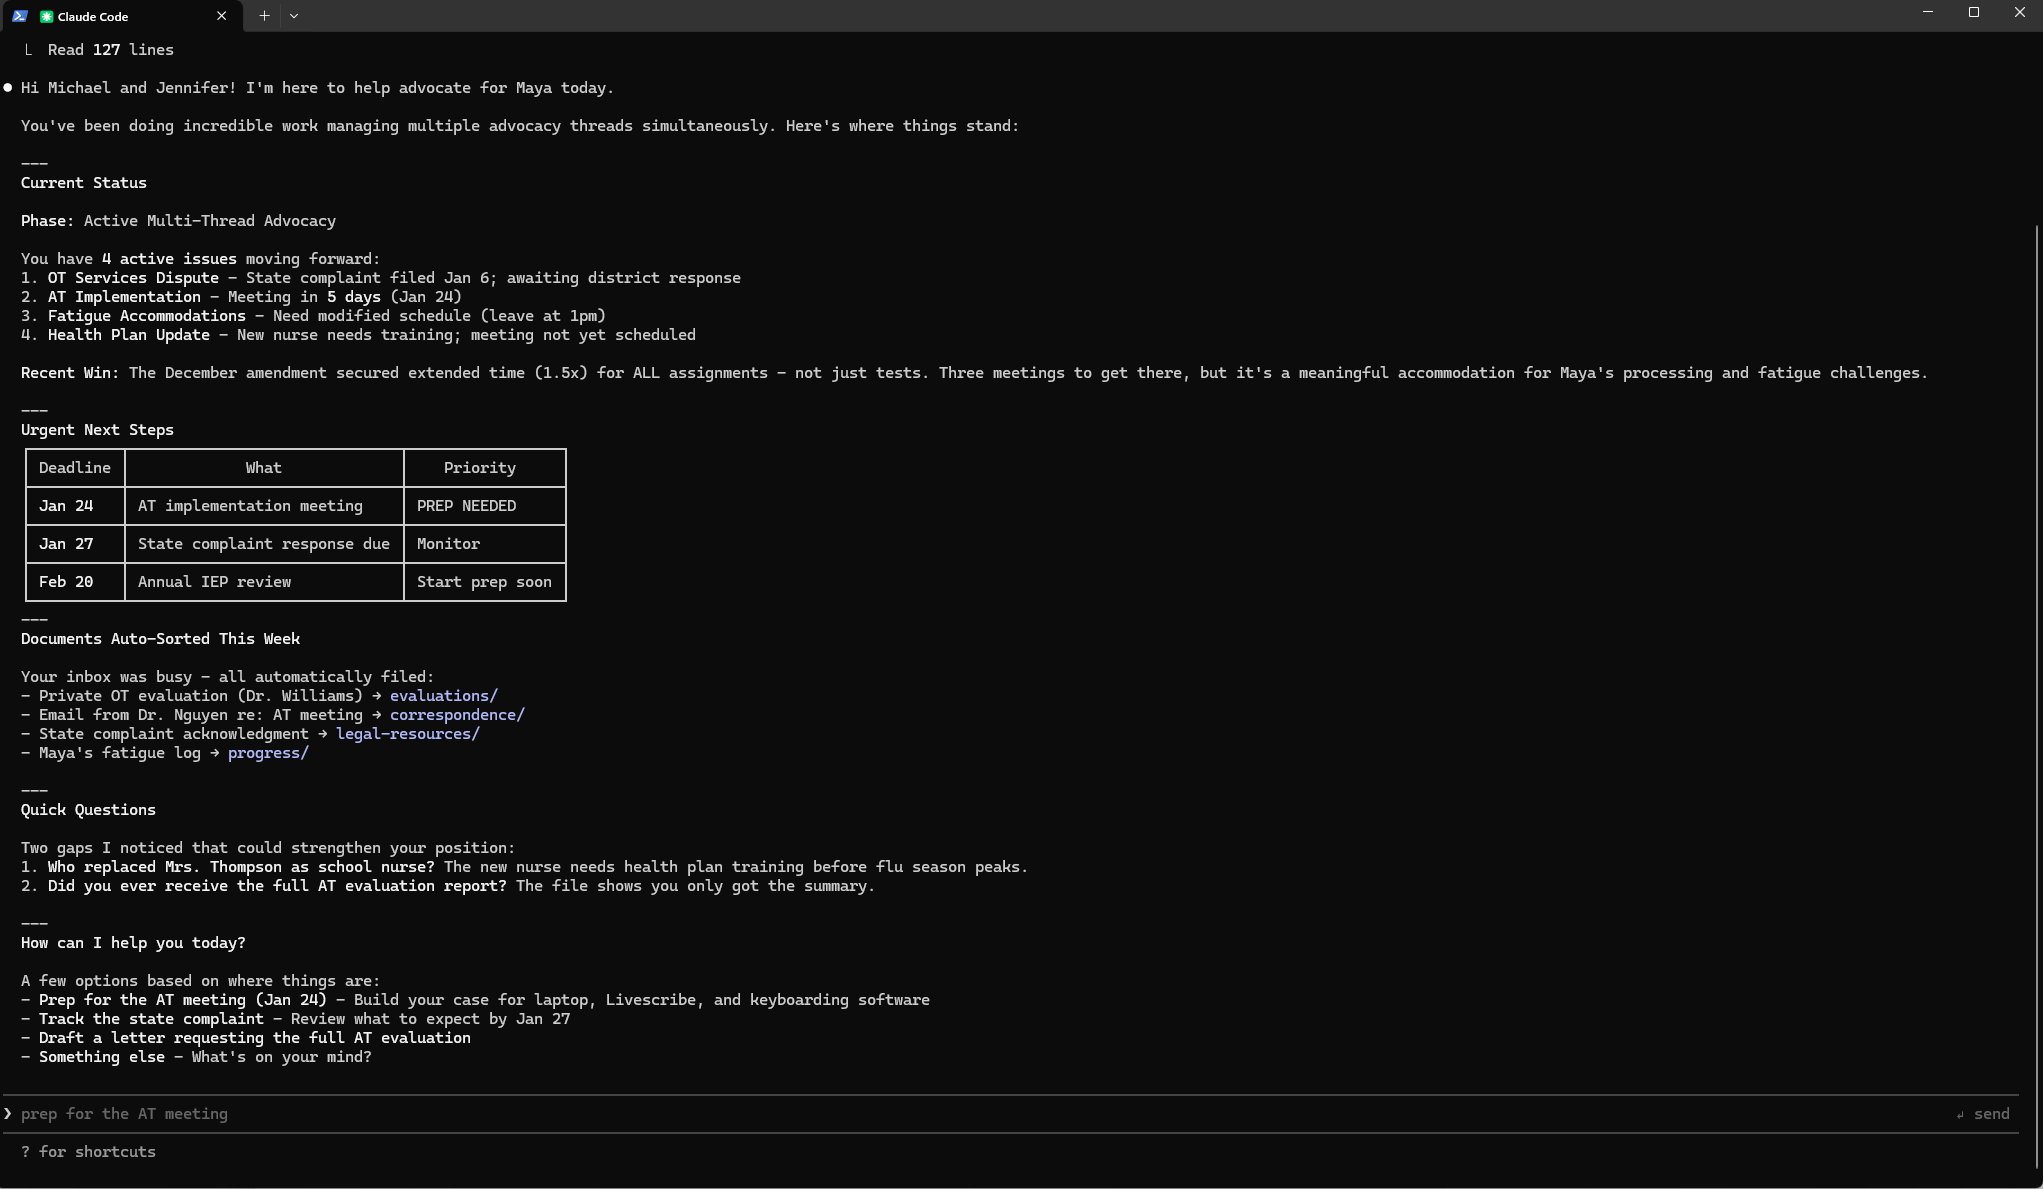
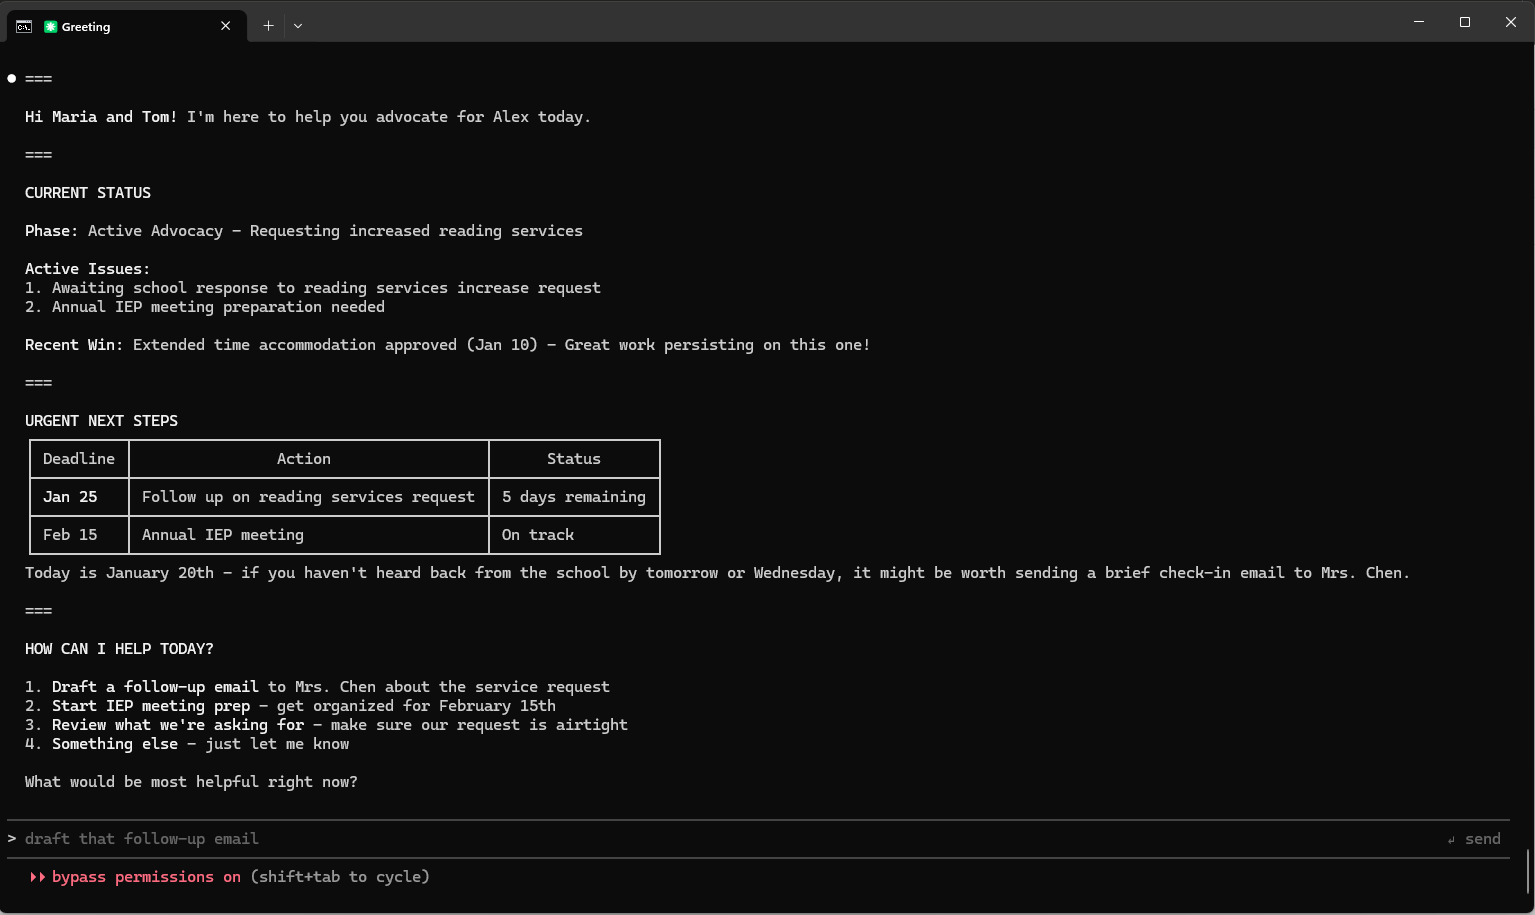
feat: Improve customer start screen experience
- Add Windows (start-advocacy.bat) and Mac (start-advocacy.command) launchers
  with warm welcome banner, Claude Code detection, and error handling
- Fix Windows launcher to use claude.cmd to avoid desktop app conflict
- Update welcome.md with improved visual formatting (section dividers, ALL CAPS headers)
- Update CLAUDE.md with detailed automatic welcome flow instructions
- Update README.md with Quick Start section, Troubleshooting, and launcher instructions
- Add pre-commit checklist to CONTRIBUTING.md (revert user data files rule)
- Add new screenshots: launcher, setup wizard, advice, drafting

Changed region(s): [[0.0, 0.0, 1.0, 0.6426], [0.0, 0.1836, 1.0, 1.0]]

diff --git a/README.md b/README.md
@@ -24,7 +24,11 @@
 - [Common Questions](#common-questions)
 - [Getting Help](#getting-help)
 - [We Want Your Feedback!](#we-want-your-feedback)
+- [Troubleshooting](#troubleshooting)
 - [Important Disclaimers](#important-disclaimers)
+
+> **Free help is available!** Every state has a Parent Training and Information Center (PTI)
+> that provides free support to families. Find yours at [parentcenterhub.org](https://www.parentcenterhub.org/find-your-center/)
 
 ---
 
@@ -102,10 +106,9 @@ This is an **agentic AI toolkit**—Claude doesn't just answer questions, it wor
 
 ### What You'll Need
 
-1. **A computer** (Windows, Mac, or Linux)
+1. **A computer** (Windows or Mac)
 2. **Claude Code** - AI tool from Anthropic ([Get it here](https://claude.ai/code))
 3. **A Claude Pro subscription** - See cost details below
-4. **About 15 minutes** for initial setup
 
 ### Cost
 
@@ -181,11 +184,15 @@ git clone https://github.com/[username]/iep-advocate-template.git
 2. Follow the installation instructions for your computer
 3. Sign in with your Claude Pro account (or sign up for Pro)
 
-### Step 3: Open the Toolkit in Claude Code
+### Step 3: Open the Toolkit
 
-1. Open Claude Code
-2. Open the folder you downloaded (File > Open Folder)
-3. You should see all the toolkit files in the sidebar
+**Easiest way:** Double-click `start-advocacy.bat` (Windows) or `start-advocacy.command` (Mac)
+
+![Launcher showing warm welcome message and instructions](assets/launcher-screenshot.png)
+
+*The launcher greets you warmly and guides you through getting started.*
+
+**Alternative:** Open Claude Code manually, then File > Open Folder and select the toolkit folder.
 
 ### Step 4: Run the Setup Wizard
 
@@ -198,6 +205,17 @@ git clone https://github.com/[username]/iep-advocate-template.git
    - Set up your dashboard
 
 **That's it! You're ready to go.**
+
+### Quick Start (Daily Use)
+
+After initial setup is complete, starting your advocacy session is easy:
+
+**Windows:** Double-click `start-advocacy.bat`
+
+**Mac:** Double-click `start-advocacy.command`
+*(First time: see [Troubleshooting](#troubleshooting) if you get "Permission denied" or security warnings)*
+
+That's it! Say "hi" and Claude will greet you with your current status and next steps.
 
 ### Step 5: Add Your Existing Documents (Optional)
 
@@ -437,6 +455,31 @@ Most IEP issues can be resolved without a lawyer by:
 4. Using mediation if needed
 
 This toolkit helps with all of those. If you do need legal help, your state's Protection & Advocacy organization may provide free assistance.
+
+---
+
+## Troubleshooting
+
+### "Claude Code is not installed"
+
+- Visit [claude.ai/code](https://claude.ai/code) to install
+- After installing, close and reopen the launcher
+
+### Mac: "Cannot be opened because it is from an unidentified developer"
+
+- Right-click the file and choose "Open"
+- Click "Open" in the dialog that appears
+- You only need to do this once
+
+### Mac: "Permission denied" when running start-advocacy.command
+
+1. Open the Terminal app (search for "Terminal" in Spotlight)
+2. Type: `cd ` (with a space after it)
+3. Drag your toolkit folder into the Terminal window
+4. Press Enter
+5. Type: `chmod +x start-advocacy.command`
+6. Press Enter
+7. Now double-click start-advocacy.command again
 
 ---
 

diff --git a/.claude/commands/welcome.md b/.claude/commands/welcome.md
@@ -61,22 +61,57 @@ Offer 3-4 quick options based on current status, such as:
 - Acknowledge the hard work they're doing
 - Be helpful without being overwhelming
 
+## Output Formatting
+
+Use clear visual structure to make the welcome easy to scan:
+
+- Use `===` dividers (full line) for the greeting box at top
+- Use `---` dividers between content sections
+- ALL CAPS headers for section titles (CURRENT STATUS, URGENT NEXT STEPS, etc.)
+- Section order: greeting → status → deadlines → help options
+- Numbered bullets for active issues
+- Table format only for deadlines (most scannable use)
+- Celebrate recent wins when applicable
+
 ## Example Output
 
 ```
-Hi [Parent names]! I'm here to help advocate for [Student] today.
+================================================================
 
-💡 Update available: v2.1.0 (you have v2.0.1). Run /check-updates for details.
+  Hi [Parent names]! I'm here to help advocate for [Student] today.
 
-**Current Status:** [Brief summary of where things stand]
+================================================================
 
-**Next Step:** [Most immediate action needed]
+CURRENT STATUS
+--------------
+Phase: [Active Advocacy / Setup / etc.]
 
-How can I help you today? I can:
-- Help you prepare for [upcoming event]
-- Draft a follow-up email about [recent topic]
-- Review the current advocacy strategy
-- Answer any questions about the process
+You have [N] active issues:
+  1. [Issue] - [Brief status]
+  2. [Issue] - [Brief status]
+
+Recent Win: [Celebration of recent progress]
+
+----------------------------------------------------------------
+
+URGENT NEXT STEPS
+-----------------
+| Deadline | What                      | Priority    |
+|----------|---------------------------|-------------|
+| [Date]   | [Action item]             | [Status]    |
+
+[If update available:]
+Update available: v[new] (you have v[current]). Run /check-updates for details.
+
+----------------------------------------------------------------
+
+HOW CAN I HELP TODAY?
+---------------------
+Based on where things stand, I can:
+  - [Contextual option 1]
+  - [Contextual option 2]
+  - [Contextual option 3]
+  - Something else - just ask!
 
 What would be most helpful right now?
 ```

diff --git a/CLAUDE.md b/CLAUDE.md
@@ -122,11 +122,39 @@ Update the relevant files:
 
 ## Session Behavior
 
-### At Session Start
-1. Read DASHBOARD.md, MEMORY.md, CURRENT-STATUS.md
-2. Greet warmly with current status
-3. Identify any information gaps
-4. Offer help with relevant options
+### At Session Start (AUTOMATIC)
+
+**On ANY first message from the user**, automatically execute the warm welcome flow:
+
+1. **Read context files** (silently):
+   - DASHBOARD.md, STUDENT.md, MEMORY.md, CURRENT-STATUS.md
+
+2. **Check for updates** (silently):
+   - Compare local VERSION to remote
+   - Note if update available (show later)
+
+3. **Greet warmly** (with visual formatting):
+   - Use `===` section dividers for visual structure
+   - "Hi [Parent names]! I'm here to help advocate for [Student] today."
+   - If STUDENT.md has placeholders, use "Welcome! I'm here to help with your advocacy."
+
+4. **Show current status** (CURRENT STATUS section):
+   - Current phase of advocacy
+   - List active issues as numbered bullets
+   - Celebrate recent wins
+
+5. **Show urgent next steps** (URGENT NEXT STEPS section):
+   - Table format for deadlines
+   - Only show items needing attention
+
+6. **Show update notification** (if available):
+   - "Update available: v[new] (you have v[current]). Run /check-updates for details."
+
+7. **Offer help** (HOW CAN I HELP TODAY? section):
+   - 3-4 contextual options based on current status
+   - "What would be most helpful right now?"
+
+**Then** respond to whatever the user actually said (if they asked a question, answer it after the welcome).
 
 ### During Session
 - Track tasks with TodoWrite tool

diff --git a/CONTRIBUTING.md b/CONTRIBUTING.md
@@ -116,6 +116,28 @@ Thank you for your interest in improving this toolkit! Your contributions help f
 
 ---
 
+## Development Guidelines
+
+### Pre-Commit Checklist
+
+Before committing changes, ensure:
+
+1. **PHI/PII scan completed** - No real student data in any files
+2. **User data files have placeholders** - These files must NOT contain demo/test data:
+   - `STUDENT.md` - must have `{{PLACEHOLDER}}` values
+   - `DASHBOARD.md` - must have `{{PLACEHOLDER}}` values
+   - `CURRENT-STATUS.md` - must have `[placeholder]` values
+   - `MEMORY.md` - must have `{{PLACEHOLDER}}` values
+
+   If you used demo data for testing, revert before commit:
+   ```bash
+   git restore STUDENT.md DASHBOARD.md CURRENT-STATUS.md MEMORY.md
+   ```
+
+3. **Screenshots use demo data** - Any screenshots should show sample data, never real student information
+
+---
+
 ## Questions?
 
 - Open an issue for project-related questions
